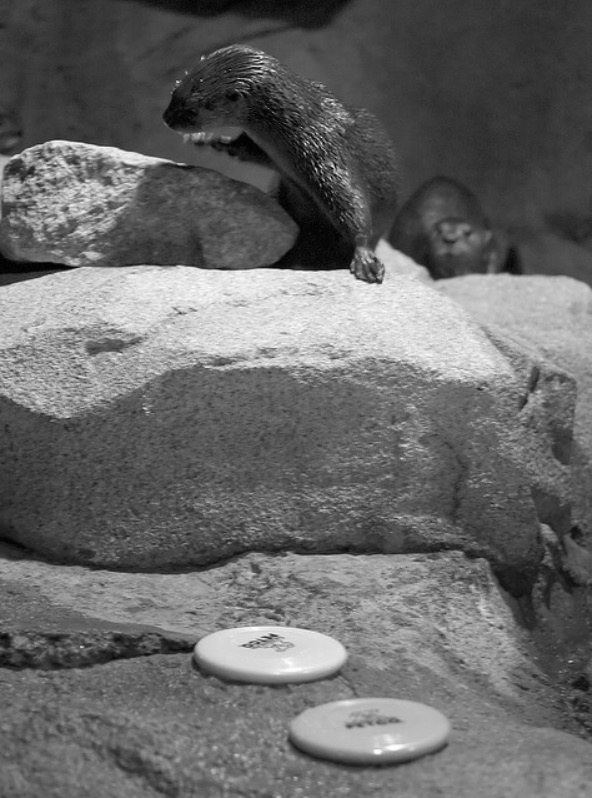
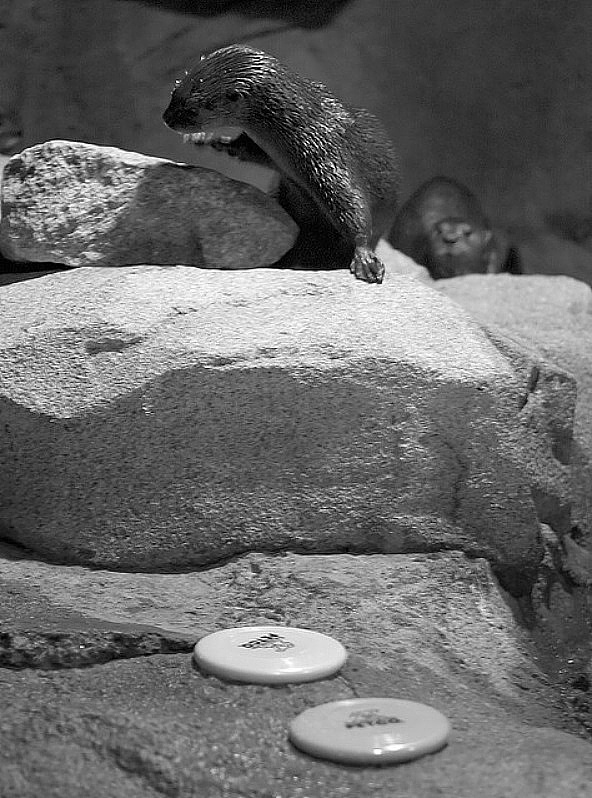
image 9

diff --git a/lab3/q1/ImageRecreation.py b/lab3/q1/ImageRecreation.py
@@ -76,7 +76,7 @@ def recreate_image_with_motionBlur(input_image, ksize):
 
 
 def recreate_image_with_bilateralFilter(input_image):
-    recreated = cv2.bilateralFilter(input_image, d=21, sigmaColor=75, sigmaSpace=75)
+    recreated = cv2.bilateralFilter(input_image, d=15, sigmaColor=150, sigmaSpace=0)
     return recreated
 
 
@@ -120,8 +120,8 @@ save_image_and_calculate_mse(recreated, 'image_6')
 
 # # image 7
 H, W = image.shape
-kernel = np.zeros((H+1, W), dtype=np.float32)
-kernel[H, W//2] = 1
+kernel = np.zeros((H + 1, W), dtype=np.float32)
+kernel[H, W // 2] = 1
 recreated = recreate_image_with_kernel(image, kernel, border_type=cv2.BORDER_WRAP)
 save_image_and_calculate_mse(recreated, 'image_7')
 
@@ -130,23 +130,9 @@ save_image_and_calculate_mse(image, 'image_8')
 
 # image 9
 
-# Define a sharpening kernel to increase contrast
-# sharpening_kernel = np.array([[-1, -1, -1],
-#                               [-1,  9, -1],
-#                               [-1, -1, -1]])
-#
-# # recreated = recreate_image_with_kernel(image, contrast_kernel, border_type=cv2.BORDER_REFLECT)
-# recreated = recreate_image_with_kernel(image, sharpening_kernel, border_type=cv2.BORDER_REFLECT)
-# Apply Gaussian blur to the image
-kernel = np.array([[1],
-                   [0],
-                   [1]])
-b_g = recreate_image_with_kernel(image, kernel, border_type=cv2.BORDER_DEFAULT)
-
-# Subtract the blurred image from the original image to get the mask
-unsharp_mask = cv2.subtract(image, b_g)
-
-# Add the mask back to the original image to increase sharpness
-sharpened_image_with_mask = cv2.add(image, unsharp_mask)
-save_image_and_calculate_mse(sharpened_image_with_mask, 'image_9')
-
+sharpening_kernel = np.array([[-1, -1, -1],
+                              [-1, 20, -1],
+                              [-1, -1, -1]]) / 12
+recreated = recreate_image_with_kernel(image, sharpening_kernel, border_type=cv2.BORDER_REFLECT101,border_value=255)
+recreated = recreate_image_with_kernel(recreated, sharpening_kernel, border_type=cv2.BORDER_REFLECT101,border_value=255)
+save_image_and_calculate_mse(recreated, 'image_9')
